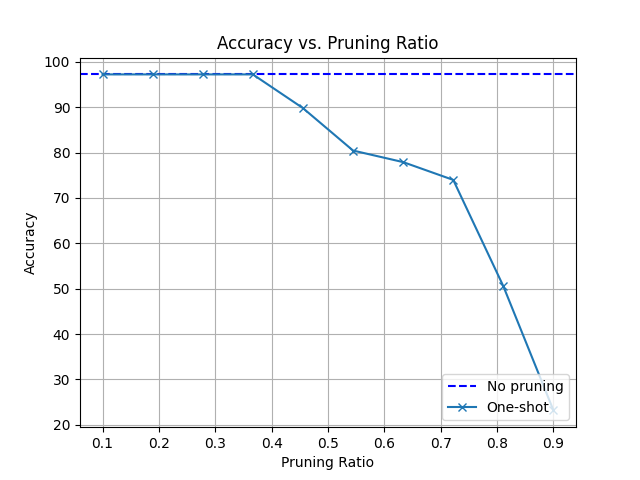
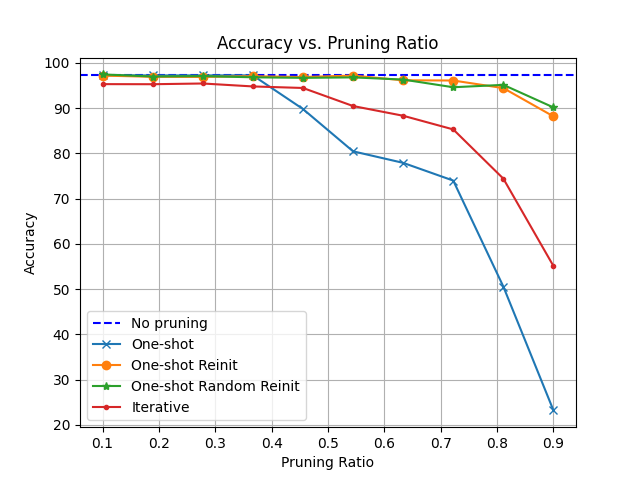
added pruning on mnist

diff --git a/lotteryticket/util.py b/lotteryticket/util.py
@@ -114,3 +114,81 @@ def oneshot_pruning( model, input_shape, output_shape, prune_ratio = 0.2):
             input_shape = layer_wt_data.shape[0]
     return unpruned_layers
 
+def oneshot_reinit_pruning( model, untrained_model, input_shape, output_shape, prune_ratio = 0.2):
+    unpruned_layers = [] 
+    layers_pruned = []
+    
+    for (name, module), (_, untrained_module) in zip(model.named_children(), untrained_model.named_children()):
+        if isinstance(module, nn.Linear):
+            # Not pruning the last output layer if param.shape[0] == output_shape:
+            if module.bias.shape[0] == output_shape:
+                add_layer(unpruned_layers, input_shape, output_shape, get_data(module.weight, layers_pruned),module.bias)
+                continue
+            # Sorting the features in a layer based on l1 norm
+            trained_weight_with_skipped_input = get_data(module.weight, layers_pruned)
+            weight_param_skipped_input = get_data(untrained_module.weight, layers_pruned)
+            bias_param_with_skipped_input = untrained_module.bias.data
+            sorted_layers = torch.linalg.norm(trained_weight_with_skipped_input, ord=1, dim=1).argsort(dim=-1)
+            layers_not_pruned = sorted(sorted_layers[int(prune_ratio*trained_weight_with_skipped_input.shape[0]):])
+            layers_pruned = sorted(sorted_layers[:int(prune_ratio*trained_weight_with_skipped_input.shape[0])])
+            layers_not_pruned_indices = torch.tensor([tensor.item() for tensor in layers_not_pruned])
+            
+            # Initialising unpruned neurons with pre-training values
+            layer_wt_data = weight_param_skipped_input[layers_not_pruned, :]
+            layer_bias_data = bias_param_with_skipped_input[layers_not_pruned_indices]
+            add_layer(unpruned_layers, input_shape, layer_wt_data.shape[0], layer_wt_data, layer_bias_data)
+            input_shape = layer_wt_data.shape[0]
+    return unpruned_layers
+
+# Iterative Pruning 
+# We prune pm features in each layer based on L1 norm, and remove pruned layers outgoing edge
+# The nn.Sequential method randomly initialises when called 
+# So we copy the weights of the model before pruning using indexing
+# The accuracy drops after pruning so we fine tune the model
+def iterative_pruning( model, input_shape, output_shape, train_loader, prune_ratio, prune_iter, max_iter = 10):
+    
+     # Per round pune ratio and number of epochs for every fine tuning
+    per_round_prune_ratio = prune_ratio/prune_iter
+    if prune_ratio > 0:
+        per_round_prune_ratio = 1 - (1 - prune_ratio) ** (1 / prune_iter)
+    per_round_max_iter = int(max_iter / prune_iter)
+
+    criterion = nn.CrossEntropyLoss()
+    optimizer = optim.Adam(model.parameters(), lr=0.001)
+    for epoch in range(max_iter):
+        model.train()
+        for batch_idx, (data, target) in enumerate(train_loader):
+            optimizer.zero_grad()
+            output = model(data)
+            loss = criterion(output, target)
+            loss.backward()
+            optimizer.step()
+            if batch_idx % 100 == 0:
+                print(f"Epoch {epoch+1}/{max_iter}, Batch {batch_idx}/{len(train_loader)}, Loss: {loss.item()}")
+
+        # Pruing per_round_prune_ratio of layers every max_iter/prune_iter iteration
+        if (epoch + 1) % per_round_max_iter == 0:
+            unpruned_layers = [] 
+            layers_pruned = []
+            
+            for name, module in model.named_children():
+                if isinstance(module, nn.Linear):
+                    # Not pruning the last output layer if param.shape[0] == output_shape:
+                    if module.bias.shape[0] == output_shape:
+                        add_layer(unpruned_layers, input_shape, output_shape, get_data(module.weight, layers_pruned),module.bias)
+                        continue
+                    # Sorting the features in a layer based on l1 norm
+                    weight_with_skipped_input = get_data(module.weight, layers_pruned)
+                    bias_param_with_skipped_input = module.bias.data
+                    sorted_layers = torch.linalg.norm(weight_with_skipped_input, ord=1, dim=1).argsort(dim=-1)
+                    layers_not_pruned = sorted(sorted_layers[int(per_round_prune_ratio*weight_with_skipped_input.shape[0]):])
+                    layers_pruned = sorted(sorted_layers[:int(per_round_prune_ratio*weight_with_skipped_input.shape[0])])
+                    layers_not_pruned_indices = torch.tensor([tensor.item() for tensor in layers_not_pruned])
+                    
+                    # Initialising unpruned neurons with pre-training values
+                    layer_wt_data = weight_with_skipped_input[layers_not_pruned, :]
+                    layer_bias_data = bias_param_with_skipped_input[layers_not_pruned_indices]
+                    add_layer(unpruned_layers, input_shape, layer_wt_data.shape[0], layer_wt_data, layer_bias_data)
+                    input_shape = layer_wt_data.shape[0]
+            model.update_layers(unpruned_layers)
+    return model

diff --git a/lotteryticket/main.py b/lotteryticket/main.py
@@ -35,7 +35,7 @@ class MLP(nn.Module):
 
     def update_layers(self, new_layers):
         for i, new_layer in enumerate(new_layers):
-            if hasattr(self, f'fc{i + 1}'):  
+            if hasattr(self, f'fc{i + 1}'):
                 setattr(self, f'fc{i + 1}', new_layer)
 
     def forward(self, x):
@@ -45,12 +45,12 @@ class MLP(nn.Module):
         x = self.fc2(x)
         return x
    
-
 # Initialize the model, optimizer, criterion & train the model
 model = MLP()      
 optimizer = optim.Adam(model.parameters(), lr=0.001)
 criterion = nn.CrossEntropyLoss()
 epochs = 10
+untrained_model = copy.deepcopy(model)
 ut.train(model, train_loader, criterion, optimizer, epochs = 10)
 
 # Evaluation on the test set
@@ -64,9 +64,22 @@ num_prune_iter = 10
 pruning_ratios = np.linspace(0.1, 0.9, num_prune_iter)
 oneshot_pruning_accuracies = []
 oneshot_pruning_ece = []
+oneshot_reinit_pruning_accuracies = []
+oneshot_reinit_pruning_ece = []
+oneshot_random_reinit_pruning_accuracies = []
+oneshot_random_reinit_pruning_ece = []
+iterative_pruning_accuracies = []
+iterative_pruning_ece = []
 
 for prune_ratio in pruning_ratios:
 
+     # Iterative pruning accuracy
+    iterative_pruning_model = copy.deepcopy(untrained_model)
+    iterative_pruning_model = ut.iterative_pruning(iterative_pruning_model, input_shape = 28*28, output_shape = 10, train_loader = train_loader, prune_ratio = prune_ratio, prune_iter = 5, max_iter = 10)
+    iterative_pruning_accuracies.append(ut.calculate_accuracy(iterative_pruning_model, test_loader))
+    # Iterative pruning ECE
+    iterative_pruning_ece.append(ut.expected_calibration_error(iterative_pruning_model, test_loader))
+    
     # One-shot pruning accuracy
     one_shot_model = copy.deepcopy(model)
     unpruned_layers = ut.oneshot_pruning(one_shot_model, input_shape = 28*28, output_shape = 10, prune_ratio = prune_ratio)
@@ -75,11 +88,37 @@ for prune_ratio in pruning_ratios:
     # One-shot pruning ECE
     oneshot_pruning_ece.append(ut.expected_calibration_error(one_shot_model, test_loader))
 
+    # One-shot reinit pruning accuracy
+    one_shot_reinit_model = copy.deepcopy(model)
+    unpruned_layers = ut.oneshot_reinit_pruning(one_shot_reinit_model, untrained_model, input_shape = 28*28, output_shape = 10, prune_ratio = prune_ratio)
+    one_shot_reinit_model.update_layers(unpruned_layers)
+    # Retrain the model
+    ut.train(one_shot_reinit_model, train_loader, criterion, optimizer, epochs = 10) 
+    oneshot_reinit_pruning_accuracies.append(ut.calculate_accuracy(one_shot_reinit_model, test_loader))
+    # One-shot pruning ECE
+    oneshot_reinit_pruning_ece.append(ut.expected_calibration_error(one_shot_reinit_model, test_loader))
+
+    # One-shot random reinit pruning accuracy
+    torch.manual_seed(19)
+    random_model = MLP()
+    torch.manual_seed(42)
+    one_shot_random_reinit_model = copy.deepcopy(model)
+    unpruned_layers = ut.oneshot_reinit_pruning(one_shot_random_reinit_model, random_model, input_shape = 28*28, output_shape = 10, prune_ratio = prune_ratio)
+    one_shot_random_reinit_model.update_layers(unpruned_layers)
+    # Retrain the model
+    ut.train(one_shot_random_reinit_model, train_loader, criterion, optimizer, epochs = 10) 
+    oneshot_random_reinit_pruning_accuracies.append(ut.calculate_accuracy(one_shot_random_reinit_model, test_loader))
+    # One-shot pruning ECE
+    oneshot_random_reinit_pruning_ece.append(ut.expected_calibration_error(one_shot_random_reinit_model, test_loader))
+
 # Plot Accuracy vs Pruning Ratio
 plt.figure().clear()
 plt.axhline(y = unpruned_accuracy, color = 'b', linestyle = '--')
 plt.plot(pruning_ratios, oneshot_pruning_accuracies, marker='x')
-plt.legend(["No pruning","One-shot"], loc ="lower right")
+plt.plot(pruning_ratios, oneshot_reinit_pruning_accuracies, marker='o')
+plt.plot(pruning_ratios, oneshot_random_reinit_pruning_accuracies, marker='*')
+plt.plot(pruning_ratios, iterative_pruning_accuracies, marker='.')
+plt.legend(["No pruning","One-shot","One-shot Reinit", "One-shot Random Reinit","Iterative"], loc ="lower left")
 plt.title("Accuracy vs. Pruning Ratio")
 plt.xlabel("Pruning Ratio")
 plt.ylabel("Accuracy")
@@ -90,7 +129,10 @@ plt.savefig('results/acc_vs_pm.png')
 plt.figure().clear()
 plt.axhline(y = unpruned_ece, color = 'b', linestyle = '--')
 plt.plot(pruning_ratios, oneshot_pruning_ece, marker='x')
-plt.legend(["No pruning","One-shot"], loc ="lower right")
+plt.plot(pruning_ratios, oneshot_reinit_pruning_ece, marker='o')
+plt.plot(pruning_ratios, oneshot_random_reinit_pruning_ece, marker='*')
+plt.plot(pruning_ratios, iterative_pruning_ece, marker='.')
+plt.legend(["No pruning","One-shot","One-shot Reinit", "One-shot Random Reinit","Iterative"], loc ="upper left")
 plt.title("Expected Calibration Error (ECE) vs. Pruning Ratio")
 plt.xlabel("Pruning Ratio")
 plt.ylabel("ECE")
